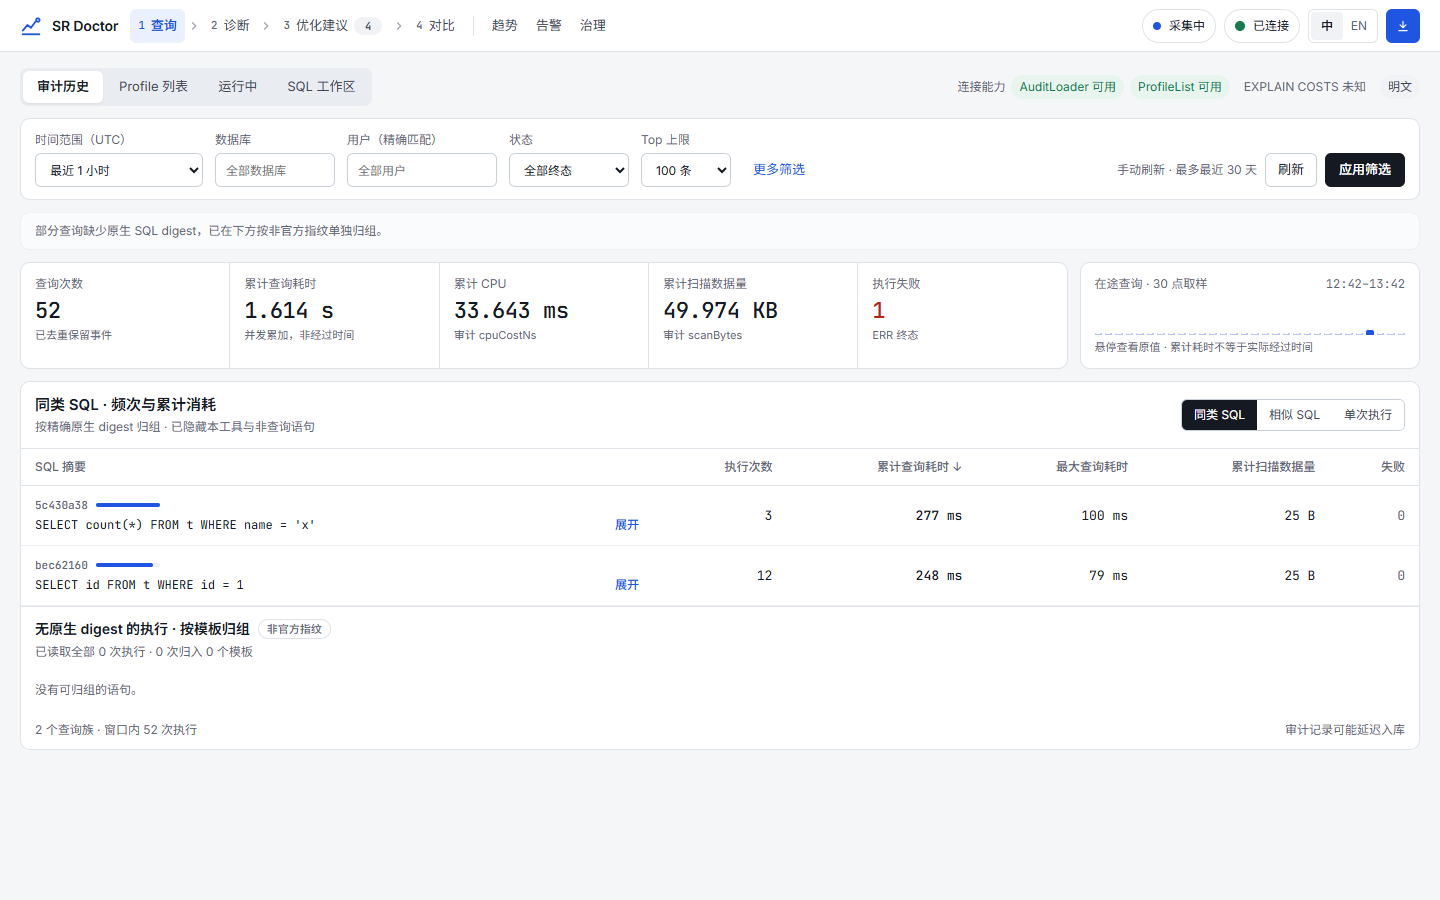
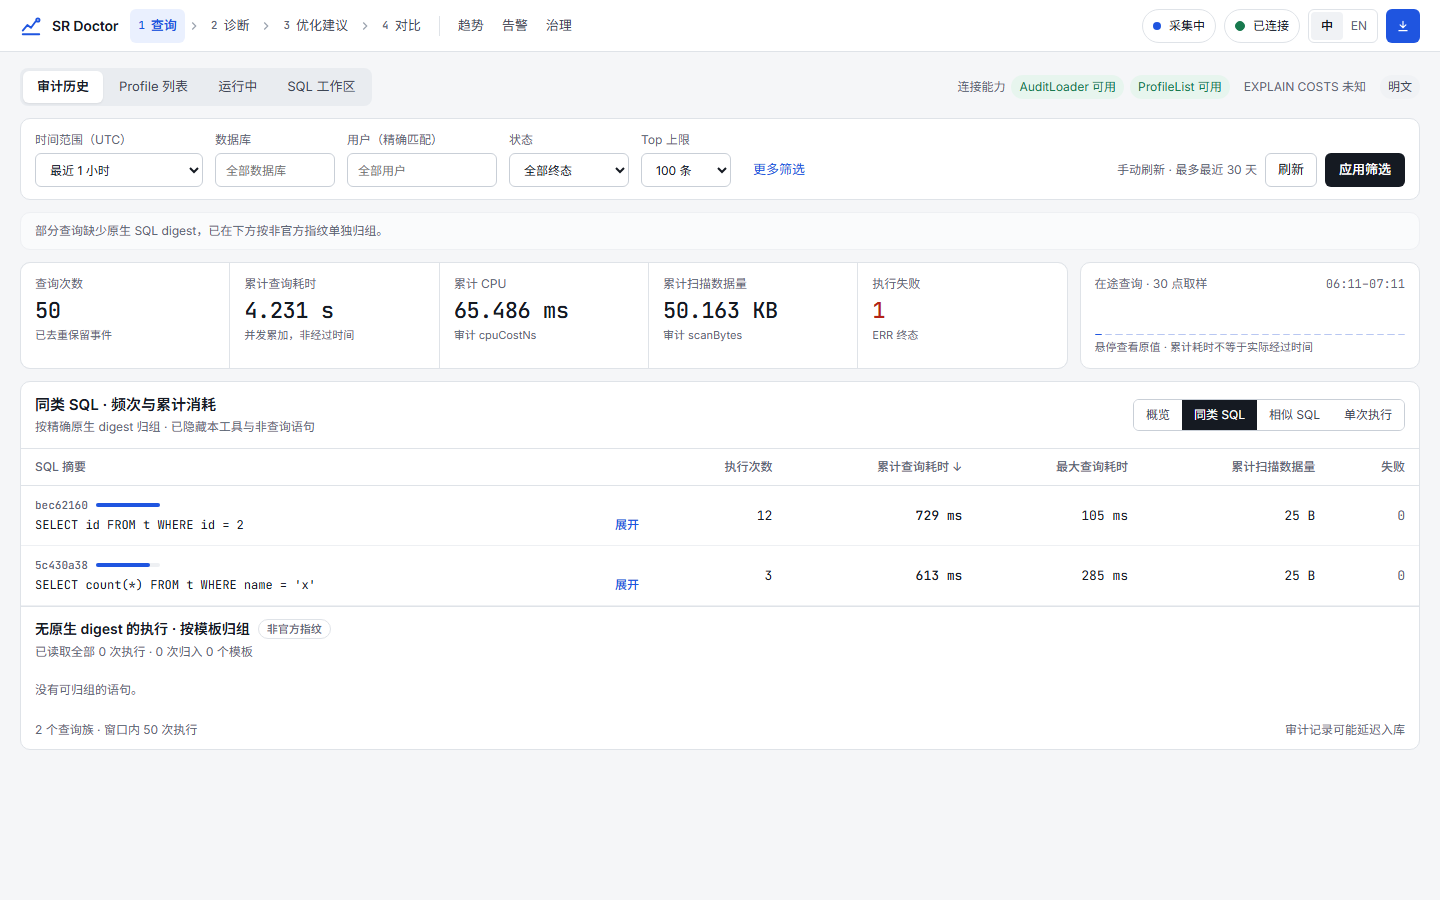
README 与使用文档补上审计概览
- 三语 README 新增“审计概览”功能表与两张新截图（审计概览、30 天负载），重拍同类 SQL 截图，项目状态说明 main 分支新增内容。
- 使用指南新增“审计概览”一节；CHANGELOG 新增“未发布”记录。

diff --git a/README.en.md b/README.en.md
@@ -79,6 +79,13 @@ No cluster? **Import a Profile** on the first page to analyze a JSON or text Pro
 | In-app alerts | Raised only by regression checks, with severity, confidence and evidence completeness shown separately |
 | Governance queue | New → triaged → in progress → pending verification → closed; an item closes only when a before/after comparison confirms the improvement |
 
+### Audit overview (added after v1.0.0, not yet released)
+
+| Capability | What it does |
+|---|---|
+| Selected window | The default view of Audit history: one bounded aggregation read of the audit table draws executions and failures, duration P50/P95/P99, scanned bytes, CPU, peak memory and queue time over time; pick a bucket to drill into its executions or repeated SQL. Also a duration histogram, failures by errorCode, and the workload by user, database, resource group and catalog. Percentiles use StarRocks `PERCENTILE_DISC`, and the page states how it picks a value |
+| 30 days · history | Daily bars, a weekday × hour heatmap and this week against last week from the local hourly aggregates; only additive totals are drawn and no percentile is synthesized; days that were not collected stay empty, and nothing is compared across a version or rule change |
+
 ## Screenshots
 
 <table>
@@ -88,7 +95,11 @@ No cluster? **Import a Profile** on the first page to analyze a JSON or text Pro
   </tr>
   <tr>
     <td><img src="docs/assets/screenshots/04-compare.png" alt="Before / after"><br><sub><b>Before / after</b>: measured intervals, finding changes and incomparable items</sub></td>
-    <td><img src="docs/assets/screenshots/06-queries-audit.png" alt="Audit history"><br><sub><b>Audit history</b>: similar SQL grouped by the official digest</sub></td>
+    <td><img src="docs/assets/screenshots/06-queries-audit.png" alt="Repeated SQL"><br><sub><b>Repeated SQL</b>: grouped by the official digest, with frequency and cumulative cost</sub></td>
+  </tr>
+  <tr>
+    <td><img src="docs/assets/screenshots/05-audit-overview.png" alt="Audit overview"><br><sub><b>Audit overview</b>: trends over time, the selected bucket and window totals</sub></td>
+    <td><img src="docs/assets/screenshots/12-history-load.png" alt="30-day load"><br><sub><b>30-day load</b>: daily bars, collection coverage and comparable segments</sub></td>
   </tr>
   <tr>
     <td colspan="2"><img src="docs/assets/screenshots/11-topology.png" alt="Execution structure"><br><sub><b>Execution structure</b>: fragment containers, operator category colours, nodes with findings outlined in red, upstream output rows and join probe/build inputs on the edges</sub></td>
@@ -158,6 +169,7 @@ Connecting to 2.5 or 3.0 shows "unsupported version" and reads no audit or Profi
 |---|---|
 | Latest release | **v1.0.0** (2026-10-29), see [Releases](https://github.com/shenhui027-arch/sr-doctor/releases). Servers are deployed with Docker; there is no installer |
 | v1.0.0 | SQL quality monitoring stages A–D developed and accepted locally; all 19 issues from the project-wide audit fixed |
+| main branch | Adds the audit overview after v1.0.0 (window performance charts and the 30-day load view); local CI and the official 3.5.14 release-level E2E pass; not yet released |
 | Local verification | Local CI passes; on fixed-digest official `starrocks/*:3.5.14` Docker fixtures, the fingerprint, collection, trends, alerts and governance, multi-BE, release-audit and TLS verify-full E2E tests pass |
 | Production acceptance | **Pending**: the G1 read-only production pilot and G2 real-workload calibration have not been done, so it is not claimed to be production-safe; remote clusters are not collected by default and alert thresholds are marked as on trial |
 | Supported versions | StarRocks **3.1 and later** (audited 3.1–4.1); 2.5 and 3.0 are not supported. See [Supported StarRocks versions](#supported-starrocks-versions) |

diff --git a/README.zh-TW.md b/README.zh-TW.md
@@ -79,6 +79,13 @@ docker compose up -d --build
 | 應用內告警 | 只來自回歸判定，分開呈現嚴重度、信賴度與證據完整度 |
 | 治理佇列 | 新建 → 已分類 → 處理中 → 待驗證 → 已關閉；只有前後對比驗證確認改善才會關閉 |
 
+### 稽核概覽（v1.0.0 之後新增，尚未發布）
+
+| 能力 | 說明 |
+|---|---|
+| 所選時間窗 | 稽核歷史的預設檢視：一次有界彙總讀取稽核表，畫出執行量與失敗、耗時 P50/P95/P99、掃描量、CPU、記憶體峰值、排隊時間的時間趨勢，點選時段可下鑽到單次執行或同類 SQL；另有耗時分布、依 errorCode 的失敗拆分、依使用者／資料庫／資源群組／Catalog 的負載構成。分位數使用 StarRocks `PERCENTILE_DISC`，介面寫明其取值規則 |
+| 30 天 · 歷史庫 | 依本機小時彙總畫出每日柱狀圖、星期 × 小時熱力圖與本週對上週；只畫可相加的量，不合成分位數；未採集的日子留空，版本或規則變化前後不比較 |
+
 ## 截圖
 
 <table>
@@ -88,7 +95,11 @@ docker compose up -d --build
   </tr>
   <tr>
     <td><img src="docs/assets/screenshots/04-compare.png" alt="前後對比"><br><sub><b>前後對比</b>：實測區間、發現項變化與不可比較項</sub></td>
-    <td><img src="docs/assets/screenshots/06-queries-audit.png" alt="稽核歷史"><br><sub><b>稽核歷史</b>：依官方 digest 合併的同類 SQL</sub></td>
+    <td><img src="docs/assets/screenshots/06-queries-audit.png" alt="同類 SQL"><br><sub><b>同類 SQL</b>：依官方 digest 合併，看頻次與累計消耗</sub></td>
+  </tr>
+  <tr>
+    <td><img src="docs/assets/screenshots/05-audit-overview.png" alt="稽核概覽"><br><sub><b>稽核概覽</b>：時間趨勢、所選時段與視窗彙總</sub></td>
+    <td><img src="docs/assets/screenshots/12-history-load.png" alt="30 天負載"><br><sub><b>30 天負載</b>：每日柱狀圖、採集覆蓋與可比分段</sub></td>
   </tr>
   <tr>
     <td colspan="2"><img src="docs/assets/screenshots/11-topology.png" alt="執行結構"><br><sub><b>執行結構</b>：Fragment 容器、運算子類別配色、有發現項的節點以紅框標出，連線上是上游輸出列數與 Join 的探測／建置輸入</sub></td>
@@ -158,6 +169,7 @@ flowchart LR
 |---|---|
 | 最近發布 | **v1.0.0**（2026-10-29），見 [Releases](https://github.com/shenhui027-arch/sr-doctor/releases)。伺服器部署統一使用 Docker，不提供安裝包 |
 | v1.0.0 | SQL 品質監控階段 A～D 已完成開發與本機驗收；全專案稽核的 19 個問題已修復 |
+| main 分支 | v1.0.0 之後新增稽核概覽（時間窗效能圖表與 30 天負載檢視），本機 CI 與官方 3.5.14 發布級 E2E 通過，尚未發布 |
 | 本機驗證 | 本地 CI 全部通過；固定 digest 的官方 `starrocks/*:3.5.14` Docker 測試環境上，指紋、採集、趨勢、告警治理、多 BE、發布級稽核、TLS verify-full 的 E2E 均通過 |
 | 正式環境驗收 | **待驗證**：G1 正式環境唯讀試點、G2 真實業務分布校準尚未進行。因此不宣稱 Production-safe；遠端叢集預設不採集，告警門檻標為「規則試行中」 |
 | 支援版本 | StarRocks **3.1 及以後**（已稽核 3.1～4.1），2.5、3.0 不支援；詳見[支援的 StarRocks 版本](#支援的-starrocks-版本) |

diff --git a/README.md b/README.md
@@ -77,6 +77,13 @@ docker compose up -d --build
 | 应用内告警 | 只来自回归判定，分开展示严重度、置信度与证据完整度 |
 | 治理队列 | 新建 → 已分诊 → 处理中 → 待验证 → 已关闭；只有前后对比验证确认改善才会关闭 |
 
+### 审计概览（v1.0.0 之后新增，尚未发布）
+
+| 能力 | 说明 |
+|---|---|
+| 所选时间窗 | 审计历史的默认视图：一次有界聚合读取审计表，画执行量与失败、耗时 P50/P95/P99、扫描量、CPU、内存峰值、排队时间的时间趋势，点选时段可下钻到单次执行或同类 SQL；另有耗时分布、按 errorCode 的失败拆分、按用户/数据库/资源组/Catalog 的负载构成。分位数用 StarRocks `PERCENTILE_DISC`，界面写明其取值规则 |
+| 30 天 · 历史库 | 按本地小时聚合画每日柱图、星期 × 小时热力图与本周对上周；只画可相加的量，不合成分位数；未采集的日子留空，版本或规则变化前后不比较 |
+
 ## 截图
 
 <table>
@@ -86,7 +93,11 @@ docker compose up -d --build
   </tr>
   <tr>
     <td><img src="docs/assets/screenshots/04-compare.png" alt="前后对比"><br><sub><b>前后对比</b>：实测区间、发现项变化与不可比较项</sub></td>
-    <td><img src="docs/assets/screenshots/06-queries-audit.png" alt="审计历史"><br><sub><b>审计历史</b>：按官方 digest 归并的同类 SQL</sub></td>
+    <td><img src="docs/assets/screenshots/06-queries-audit.png" alt="同类 SQL"><br><sub><b>同类 SQL</b>：按官方 digest 归并，看频次与累计消耗</sub></td>
+  </tr>
+  <tr>
+    <td><img src="docs/assets/screenshots/05-audit-overview.png" alt="审计概览"><br><sub><b>审计概览</b>：时间趋势、所选时段与窗口汇总</sub></td>
+    <td><img src="docs/assets/screenshots/12-history-load.png" alt="30 天负载"><br><sub><b>30 天负载</b>：每日柱图、采集覆盖与可比分段</sub></td>
   </tr>
   <tr>
     <td><img src="docs/assets/screenshots/07-trends.png" alt="模板趋势"><br><sub><b>模板趋势</b>：每小时中位数与基线带</sub></td>
@@ -156,6 +167,7 @@ flowchart LR
 |---|---|
 | 最近发布 | **v1.0.0**（2026-10-29），见 [Releases](https://github.com/shenhui027-arch/sr-doctor/releases)。服务器部署统一用 Docker，不提供安装包 |
 | v1.0.0 | SQL 质量监控阶段 A～D 已完成开发与本机验收；全项目审计的 19 个问题已修复 |
+| main 分支 | v1.0.0 之后新增审计概览（时间窗性能图表与 30 天负载视图），本地 CI 与官方 3.5.14 发布级 E2E 通过，尚未发布 |
 | 本机验证 | 本地 CI 全部通过；固定 digest 的官方 `starrocks/*:3.5.14` Docker 夹具上，指纹、采集、趋势、告警治理、多 BE、发布级审计、TLS verify-full 的 E2E 均通过 |
 | 生产验收 | **待验证**：G1 生产只读试点、G2 真实业务分布校准尚未进行。因此不宣称 Production-safe；远端集群默认不采集，告警阈值标为“规则试运行中” |
 | 支持版本 | StarRocks **3.1 及以后**（已审计 3.1～4.1），2.5、3.0 不支持；详见[支持的 StarRocks 版本](#支持的-starrocks-版本) |

diff --git a/docs/guide/user-guide.md b/docs/guide/user-guide.md
@@ -31,12 +31,27 @@ SELECT get_query_profile(last_query_id());
 
 | 选法 | 用途 |
 |---|---|
-| **审计历史** | 读审计日志（需要 AuditLoader），按官方 digest 把同类 SQL 归并，看频次与累计消耗；没有 digest 时使用非官方指纹并标注。也可以查看相似 SQL 聚类 |
+| **审计历史** | 读审计日志（需要 AuditLoader）。默认打开 **概览**（见下节）；**同类 SQL** 按官方 digest 归并，看频次与累计消耗，没有 digest 时使用非官方指纹并标注；也可以查看 **相似 SQL** 聚类和 **单次执行** |
 | **Profile 列表** | FE 上已有的 Profile，直接拉取诊断 |
 | **运行中** | 正在执行的查询，可以拉取运行中快照 |
 | **SQL 工作区** | 粘贴一条 SQL，看固定的 `EXPLAIN COSTS` 计划图；或者开启“运行时 Top”执行它，再分析这次执行的 Profile |
 
 本工具自己发出的语句，默认在列表里隐藏，并显示隐藏了多少条。
+
+### 审计概览
+
+审计历史的默认视图，回答“这段时间集群在忙什么、慢在哪里”。
+
+- **所选时间窗 · 审计表**：对筛选条件下的审计记录做一次有界聚合读取（与卡片、同类 SQL 同一口径，已去重）。
+  - **卡片**：执行次数、失败与占比、耗时 P50/P95/P99、CPU 累计（不是墙钟时间）、扫描量累计、执行中峰值。
+  - **趋势图**：可切换查询量与失败、耗时分位（对数轴）、扫描量、CPU、内存峰值、排队时间；时间粒度默认自动（1 小时窗为 1 分钟，24 小时为 15 分钟），也可以手选。最近几分钟的时段标“可能尚未全部落库”。
+  - **所选时段**：点柱子或用“上一段 / 下一段”切换，可以直接看该时段的单次执行或同类 SQL。
+  - **耗时分布、失败拆分、负载构成**：负载构成按用户、数据库、资源组、Catalog 分别给出按累计耗时、次数、失败的精确 Top；文本值可一键加为筛选条件。
+  - 分位数用 StarRocks 的 `PERCENTILE_DISC`（取排序后第 ⌈p·(n−1)⌉ 位的实际值，不插值）；为空、重复行不一致的记录单独成行，不当作 0。
+- **30 天 · 历史库**：读本机历史库的小时聚合，不再查询审计表。
+  - 每日柱图：已采集、部分采集、未采集分开画；StarRocks 版本或规则变化前的日子灰底，与之后不比较。
+  - 星期 × 小时热力图（只用完整采集的小时）与本周对上周（部分采集时不比较，上周为 0 只给绝对变化）。
+  - 只画可相加的量；分位数不能由小时聚合合成，这里不提供。远端集群默认不采集，此时会说明原因。
 
 > **运行时 Top** 必须逐次显式开启：只接受一条 `SELECT`/`WITH`，在单独的短会话里开启 Profile，超时 10 秒，丢弃结果行，不自动重试。它会真实执行这条 SQL，请只在可以承受这次负载的集群上使用。
 

diff --git a/CHANGELOG.md b/CHANGELOG.md
@@ -2,6 +2,13 @@
 
 本项目的重要变更记录在这里。
 
+## [未发布]
+
+### 新增
+
+- **审计概览**：审计历史新增默认的“概览”视图。一次有界聚合读取审计表，画执行量与失败、耗时 P50/P95/P99（StarRocks `PERCENTILE_DISC`）、扫描量、CPU、内存峰值、排队时间的时间趋势，点选时段可下钻；另有耗时分布、按 errorCode 的失败拆分、按用户/数据库/资源组/Catalog 的负载构成。新端点 `POST /api/v1/connections/{id}/audit/performance`。
+- **30 天负载视图**：概览可切到“30 天 · 历史库”，按本地小时聚合画每日柱图、星期 × 小时热力图与本周对上周；未采集不插值，版本或规则变化前后不比较，不合成分位数。新端点 `POST /api/v1/history/load`。
+
 ## [1.0.0] — 2026-10-29 · SQL 质量监控
 
 在 v0.x 的 Profile 诊断之上，扩展为持续的 SQL 质量监控。阶段 A～D 已完成开发与本机验收，发布级 E2E（单 BE、多 BE、TLS verify-full）均通过。生产验收 G1（生产只读试点）、G2（真实业务分布校准）**待验证**，因此不宣称 Production-safe：远端集群默认不采集，告警阈值标为“规则试运行中”。
